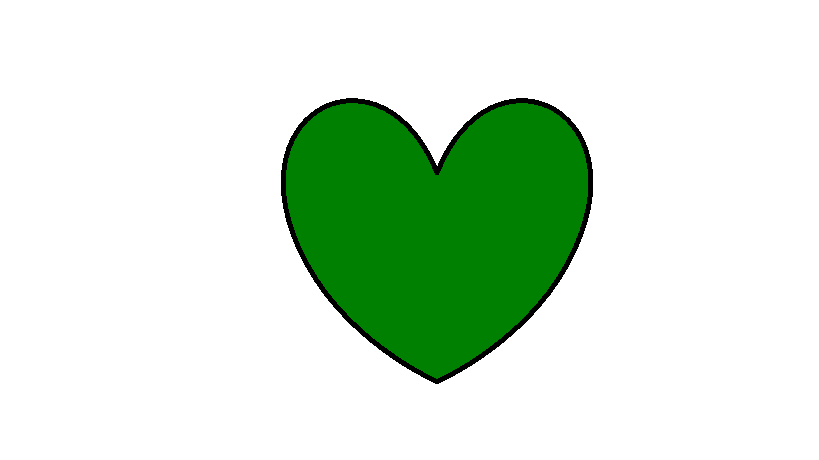
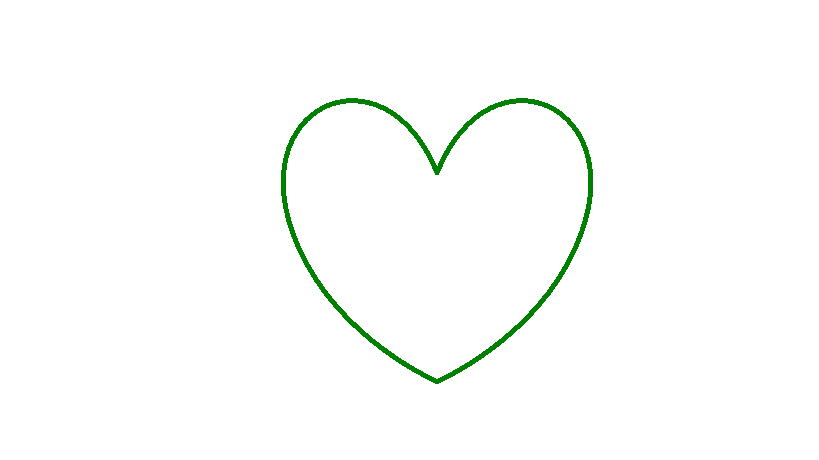
.

Changed region(s): [[0.3358, 0.213, 0.7326, 0.8522]]

diff --git a/FloodFill/ProcessarComPilha.java b/FloodFill/ProcessarComPilha.java
@@ -5,7 +5,7 @@ public class ProcessarComPilha {
         Foto foto = new Foto("Fotos/foto.png");
         PainelImagem painel = new PainelImagem(foto, "Visualizando Foto");
         painel.exibirImagem();
-        Ponto pontoInicial = new Ponto(500, 200); //500, 200, meio do coração, 10 e 10 inicial lá encima, na linha não lembro
+        Ponto pontoInicial = new Ponto(350, 100);
         int corOriginal = foto.obterCorPonto(pontoInicial);
         int novaCor = new Color(0, 128, 0).getRGB();
         PilhaPontos pilha = new PilhaPontos(foto.obterAltura() * foto.obterLargura());

diff --git a/Arvore/Arvore.java b/Arvore/Arvore.java
@@ -129,8 +129,4 @@ public class Arvore {
 
         return resultado;
     }
-
-   
-
-    
 }
